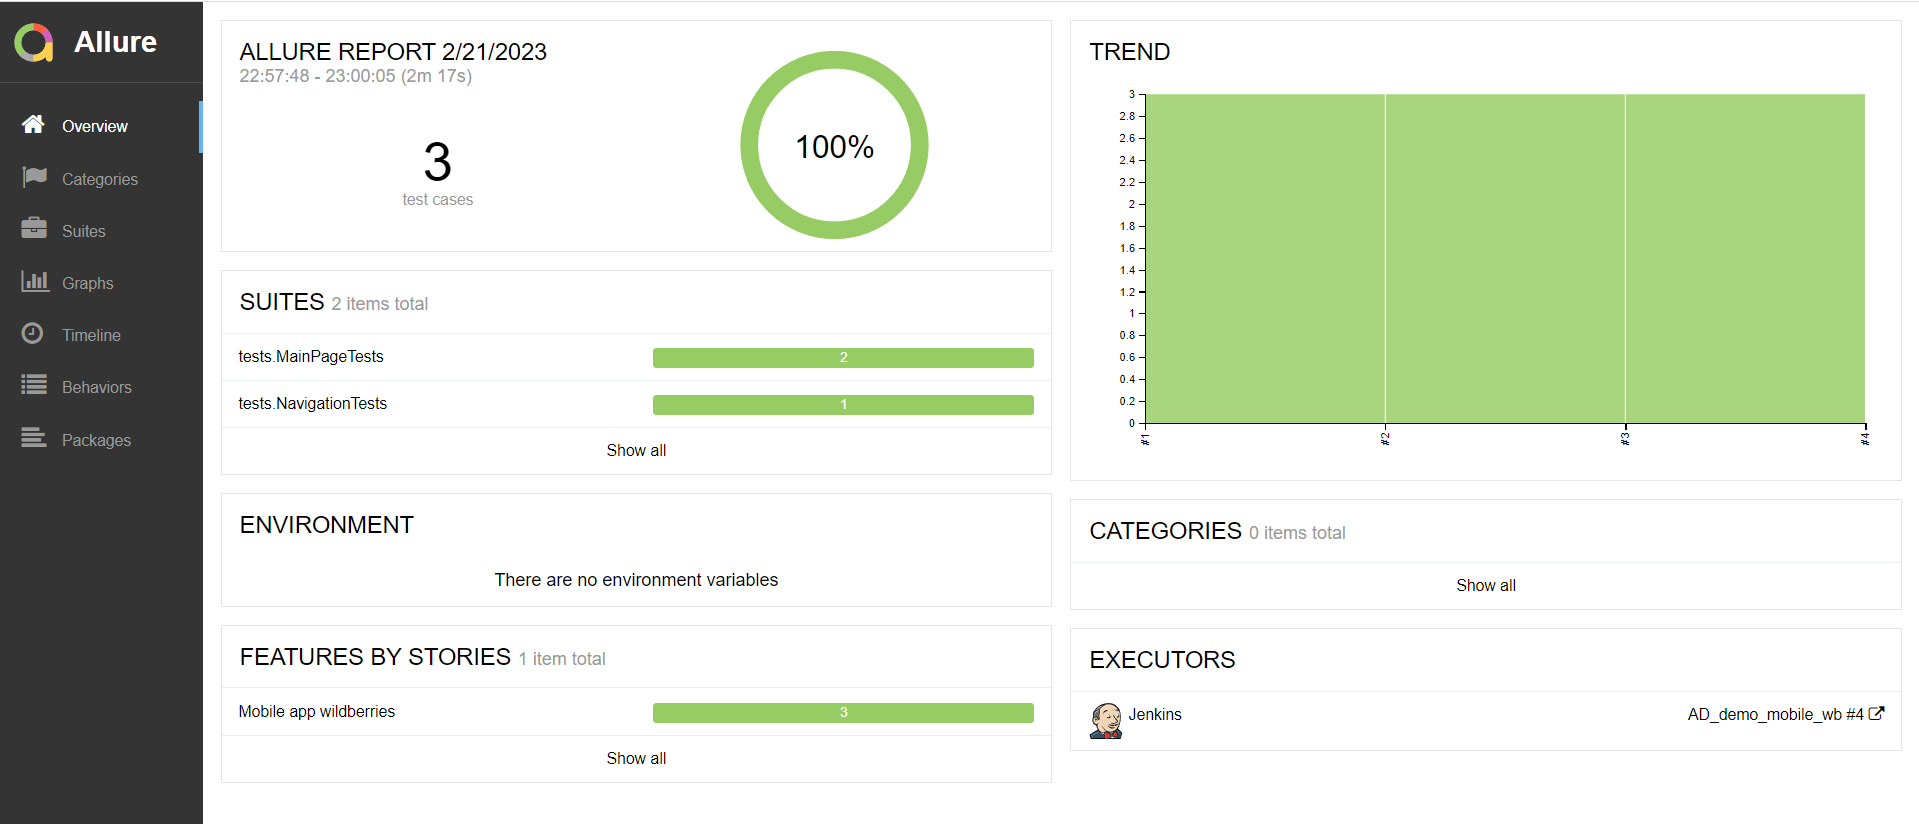
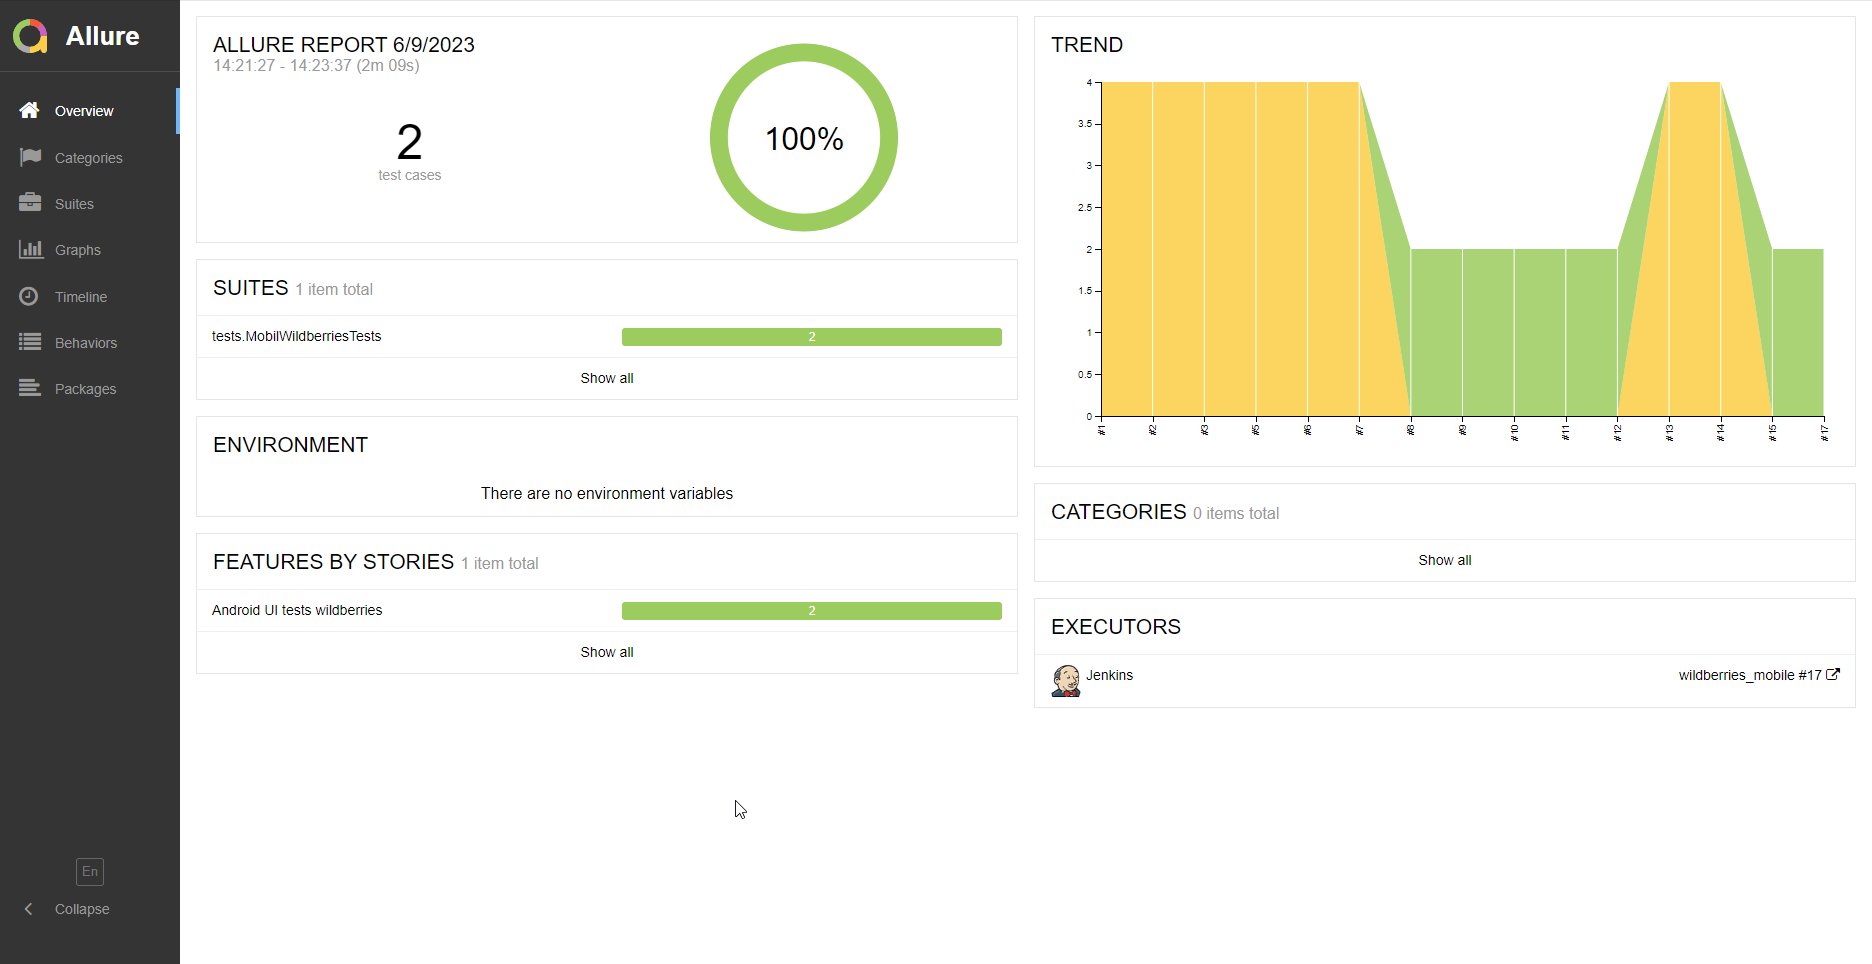
v1.0

diff --git a/README.md b/README.md
@@ -40,7 +40,7 @@
 
 -  Поиск товара в приложении
 -  Добовление товара в корзину
--  Проверка картачки товара
+-  Проверка вкладки О приложении
 
 <a id="console"></a>
 ##  Запуск тестов из терминала
@@ -57,7 +57,7 @@ gradle clean android -Dplatform='android_browserstack'
 ```
 
 <a id="jenkins"></a>
-## <img src="media/logo/Jenkins.svg" width="25" height="25"/></a> Запуск тестов в Jenkins
+## <img src="media/logo/Jenkins.svg" width="25" height="25"/></a> Запуск тестов в [Jenkins](https://jenkins.autotests.cloud/job/wildberries_mobile/) 
 
 <p align="center">
 
@@ -78,7 +78,7 @@ gradle clean android -Dplatform='android_browserstack'
 
 
 <a id="allure"></a>
-## <img src="media/logo/Allure.svg" width="25" height="25"/></a> [Allure Report](https://jenkins.autotests.cloud/job/AD_demo_mobile_wb/4/allure/) отчеты
+## <img src="media/logo/Allure.svg" width="25" height="25"/></a> [Allure Report](https://jenkins.autotests.cloud/job/wildberries_mobile/17/allure/) отчеты
 
 ### Основное окно
 
@@ -86,7 +86,7 @@ gradle clean android -Dplatform='android_browserstack'
 <img title="Allure Dashboard" src="media/screenshots/AllureMobile.png">
 </p>
 
-### Тесты
+### [Тесты](https://jenkins.autotests.cloud/job/wildberries_mobile/17/allure/#suites/0f5c00dce9238c2bb4eed24114ca4885)
 
 <p align="center">
 <img title="Allure Tests" src="media/screenshots/AllureTestsMobile.png">
@@ -106,7 +106,7 @@ gradle clean android -Dplatform='android_browserstack'
 </p>
 
 <a id="jira"></a>
-## <img src="media/logo/Jira.svg" width="25" height="25"/></a> Интеграция с [Jira](https://jira.autotests.cloud/browse/HOMEWORK-548)
+## <img src="media/logo/Jira.svg" width="25" height="25"/></a> Интеграция с [Jira](https://jira.autotests.cloud/browse/HOMEWORK-750)
 
 <p align="center">
 <img title="Jira" src="media/screenshots/jiraMobile.png">
